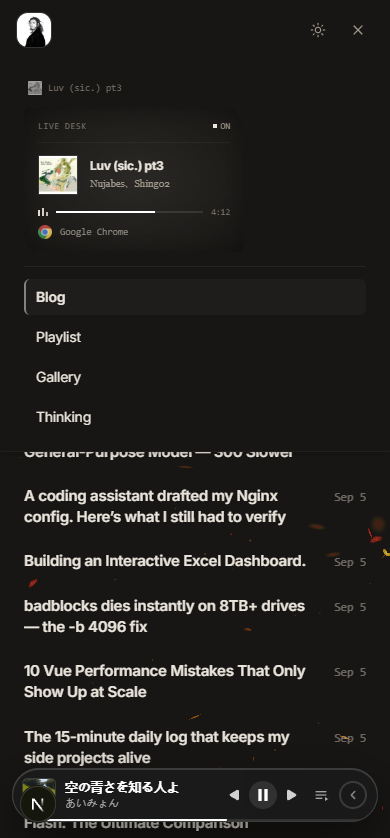
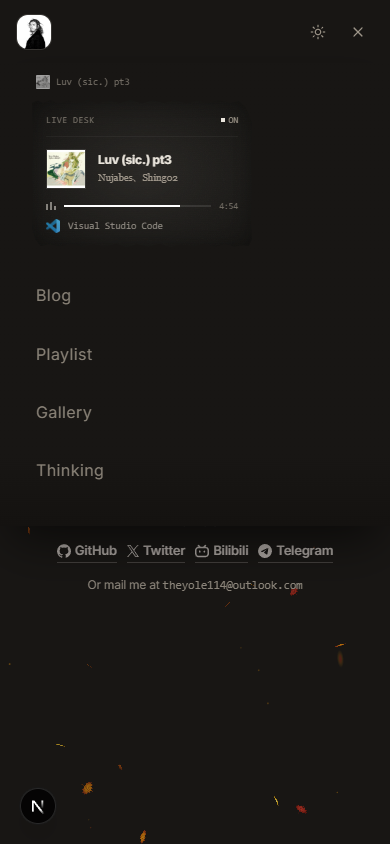
稍微除理了手机端汉堡菜单

diff --git a/src/components/layout/Navbar.tsx b/src/components/layout/Navbar.tsx
@@ -47,6 +47,7 @@ export function Navbar() {
   const pathname = usePathname();
   const [mobileMenuOpen, setMobileMenuOpen] = useState(false);
   const liveStatus = useLiveStatus();
+  const { isDark } = useTheme();
   const isOnline = (liveStatus.activity === "music" && liveStatus.music !== null) || liveStatus.app !== null;
 
   return (
@@ -139,22 +140,37 @@ export function Navbar() {
         </div>
       </div>
 
-      {/* ===================== 移动端下拉折叠菜单 ===================== */}
+      {/* ===================== 移动端空间展开 (不推动页面，融回内容) ===================== */}
       <AnimatePresence>
         {mobileMenuOpen && (
           <motion.div
-            initial={{ opacity: 0, y: -8 }}
-            animate={{ opacity: 1, y: 0 }}
-            exit={{ opacity: 0, y: -8 }}
-            transition={{ duration: 0.16, ease: [0.22, 1, 0.36, 1] }}
-            className="md:hidden border-b border-black/[0.06] dark:border-white/[0.04] bg-[#ede7dc] dark:bg-[#181614] px-6 py-4 shadow-md"
+            variants={{
+              open: { 
+                opacity: 1, 
+                y: 0, 
+                transition: { duration: isDark ? 0.24 : 0.20, ease: "easeOut" } 
+              },
+              closed: { 
+                opacity: 0, 
+                y: -6, 
+                transition: { duration: isDark ? 0.18 : 0.16, ease: "easeIn" } 
+              }
+            }}
+            initial="closed"
+            animate="open"
+            exit="closed"
+            className="absolute inset-x-0 top-full md:hidden bg-[#ede7dc] dark:bg-[#181614] px-6 pt-2 pb-8 shadow-[0_24px_48px_-12px_rgba(0,0,0,0.06)] dark:shadow-[0_24px_48px_-12px_rgba(0,0,0,0.6)]"
+            style={{ 
+              // 极弱的底缘背景差，替代生硬的 border
+              backgroundImage: isDark ? "linear-gradient(to bottom, rgba(24,22,20,1) 85%, rgba(20,18,16,1) 100%)" : "none"
+            }}
           >
             {isOnline && (
-              <div className="mb-3 pb-3 border-b border-black/[0.05] dark:border-white/[0.06]">
+              <div className="mb-6 pl-2">
                 <StatusCapsule />
               </div>
             )}
-            <nav className="flex flex-col gap-1">
+            <nav className="flex flex-col gap-3">
               {NAV_LINKS.map((link) => {
                 const isActive =
                   pathname === link.href ||
@@ -165,14 +181,29 @@ export function Navbar() {
                     key={link.name}
                     href={link.href}
                     onClick={() => setMobileMenuOpen(false)}
-                    className={`px-3 py-2 text-sm rounded-md transition-colors cursor-pointer ${
-                      isActive
-                        ? "border-l-2 border-l-[#b91c1c] dark:border-l-white/45 text-neutral-950 dark:text-[#eae5dc] font-semibold bg-black/[0.025] dark:bg-white/[0.03] pl-2.5"
-                        : "text-neutral-600 hover:text-neutral-900 dark:text-[#9d9589] dark:hover:text-[#eae5dc]"
-                    }`}
-                    style={{ transitionDuration: "var(--realm-motion-duration)", transitionTimingFunction: "var(--realm-motion-ease)" }}
+                    className="group relative flex items-center py-2.5 px-3 transition-colors cursor-pointer select-none"
                   >
-                    {link.name}
+                    <span className={`relative z-10 transition-colors ${
+                      isActive
+                        ? "text-neutral-900 dark:text-[#eae5dc] font-medium tracking-wide"
+                        : "text-neutral-500 dark:text-[#888176] font-normal tracking-wide hover:text-neutral-800 dark:hover:text-[#c4bfb6]"
+                    }`}>
+                      {link.name}
+                    </span>
+                    
+                    {/* Active 痕迹 (朱砂落在纸上 / 墨迹里的月光) */}
+                    <span 
+                      className={`absolute left-3 bottom-1.5 h-[1.5px] transition-all duration-300 ease-out pointer-events-none rounded-full ${
+                        isActive
+                          ? "w-[18px] bg-[#b91c1c] dark:bg-white/40 opacity-100"
+                          : "w-0 bg-transparent opacity-0"
+                      }`}
+                    />
+                    
+                    {/* 存在但不可察觉的互动反馈 (绝不形成明显的卡片) */}
+                    {isActive && (
+                      <span className="absolute inset-y-1 left-0 right-10 bg-gradient-to-r from-black/[0.02] dark:from-white/[0.02] to-transparent pointer-events-none" />
+                    )}
                   </Link>
                 );
               })}
